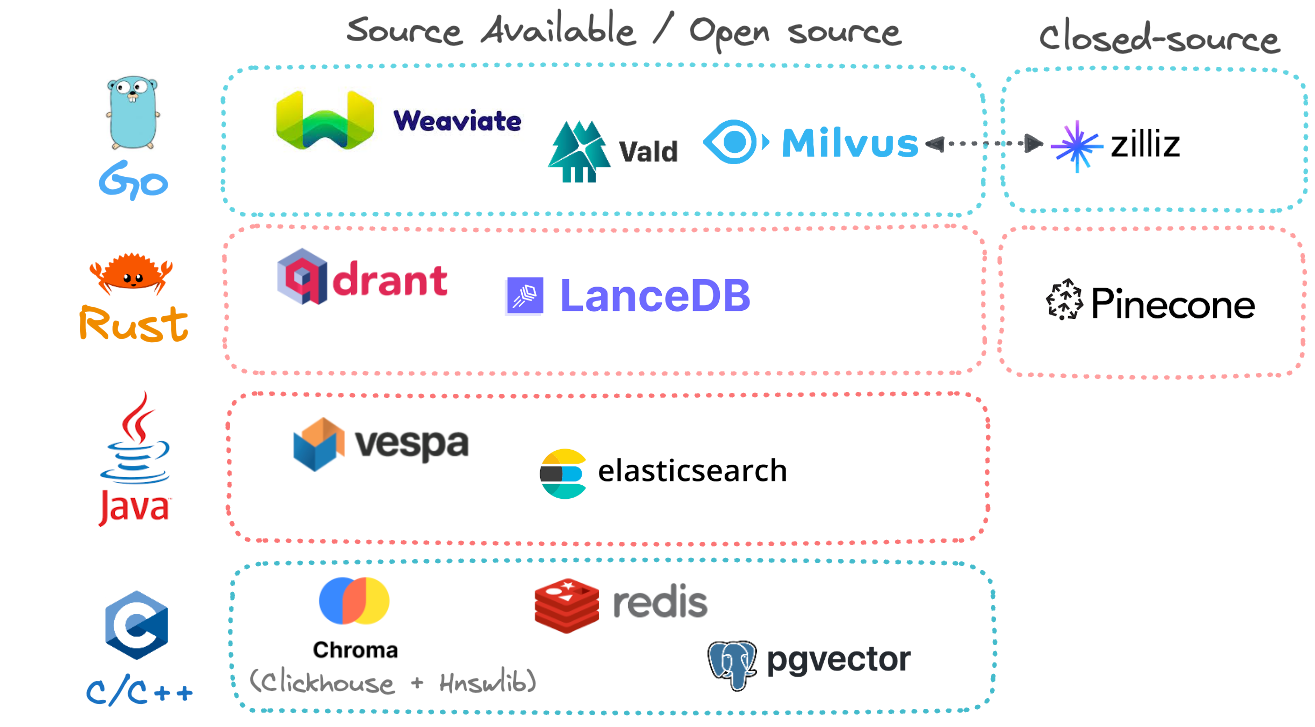
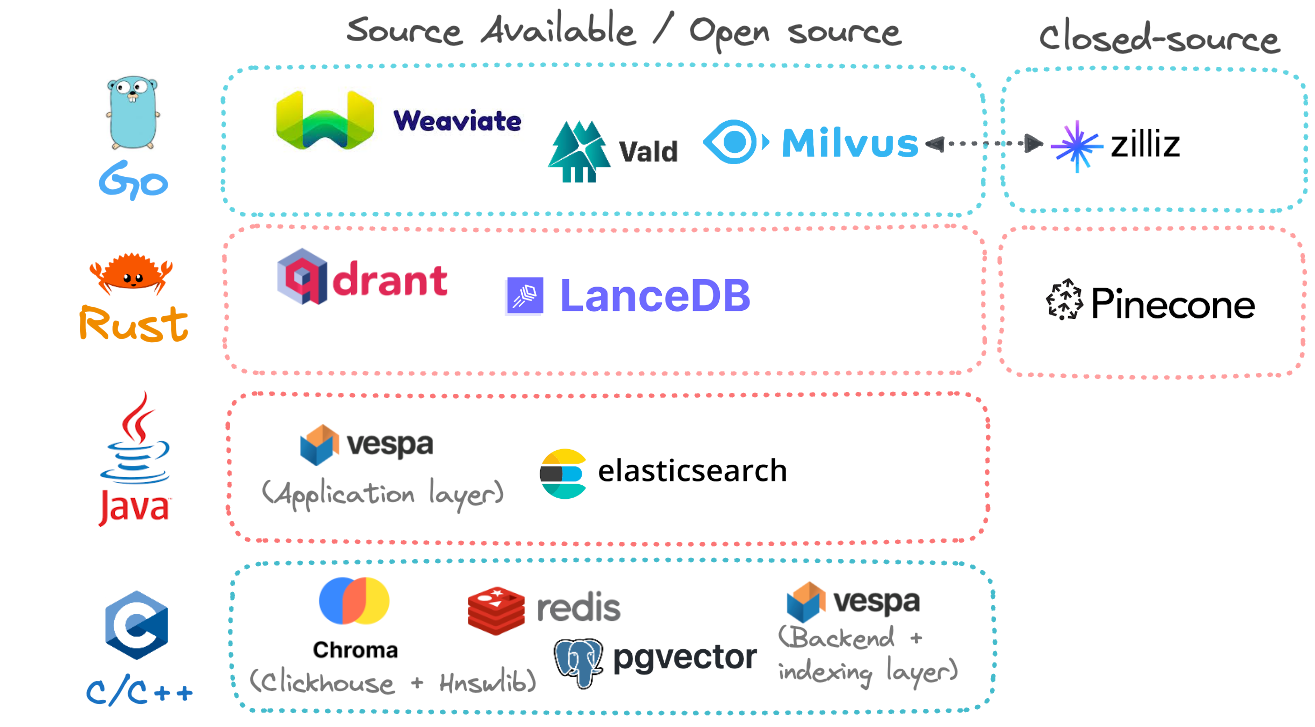
Fixes

Changed region(s): [[0.343, 0.7868, 0.7483, 0.9684], [0.1871, 0.575, 0.3741, 0.696]]

diff --git a/content/posts/vector-db-1/index.md b/content/posts/vector-db-1/index.md
@@ -40,10 +40,10 @@ Company         | Headquartered in | Funding
 Weaviate        |  🇳🇱 Amsterdam           |  $68M Series B
 Qdrant          |  🇩🇪 Berlin              |  $11M Seed
 Pinecone        |  🇺🇸 San Francisco       |  $138M Series B
-Milvus/Zilliz   |  🇨🇳 / 🇺🇸 San Francisco  |  $113M Series B
+Milvus/Zilliz   |  🇨🇳 / 🇺🇸 Redwood City   |  $113M Series B
 Chroma          |  🇺🇸 San Francisco       |  $20M Seed
 LanceDB         |  🇺🇸 San Francisco       |  Venture
-Vespa           |  🇺🇸 Redwood City        |  Yahoo!
+Vespa           |  🇳🇴 / 🇺🇸 Indianapolis   |  Yahoo!
 Vald            |  🇯🇵 Tokyo               |  Yahoo! Japan
 
 There's clearly a LOT of activity in the Bay Area, California when it comes to vector databases! Also, there's a large amount of variation in funding and valuations, and it's clear that there exists no correlation between the capabilities of a database and the amount it's funded for.
@@ -62,7 +62,7 @@ How long has each vector database been around?
 
 {{< figure src="vector-db-timeline.png" >}}
 
-Vespa was among the earliest vendors to incorporate vector similarity search alongside the then-dominant BM25 keyword-based search algorithm. Weaviate soon followed with an open-source, dedicated vector search database offering in the end of 2018, and by 2019, we began to see more competition in the space with Milvus (also open-source) being released. Note that Zilliz, also shown in the timeline, is not listed separately because it's the (commercial) parent entity of Milvus and offers a fully-managed cloud solution built on top of Milvus. In 2021, three new vendors entered the foray: Vald, Qdrant and Pinecone. Incumbents like Elasticsearch, Redis & PostgreSQL were conspicuously absent until this point and began offering vector search much later than one might think they should have -- only in 2022 and beyond.
+Vespa was among the earliest vendors to incorporate vector similarity search alongside the then-dominant BM25 keyword-based search algorithm (Fun fact: Vespa's [GitHub repo]https://github.com/vespa-engine/vespa() now has nearly 75K commits 🤯). Weaviate soon followed with an open-source, dedicated vector search database offering in the end of 2018, and by 2019, we began to see more competition in the space with Milvus (also open-source) being released. Note that Zilliz, also shown in the timeline, is not listed separately because it's the (commercial) parent entity of Milvus and offers a fully-managed cloud solution built on top of Milvus. In 2021, three new vendors entered the foray: Vald, Qdrant and Pinecone. Incumbents like Elasticsearch, Redis & PostgreSQL were conspicuously absent until this point and began offering vector search much later than one might think they should have -- only in 2022 and beyond.
 
 ### Source code availability
 
@@ -141,9 +141,9 @@ In this section, I'll list some of the key takeaways and the pros and cons of ea
 
 ### Vespa
 
-* __Pros__: Provides the most enterprise-ready hybrid search capabilities, combining the tried-and-tested power of keyword search and a custom vector search on top of HNSW. Although other vendors like Weaviate also provide keyword and vector search, Vespa was among the first to market with this offering, which has given them ample time to optimize their offering.
-* __Cons__: The developer experience in Java-based databases (simply due to the bulky nature of Java packages), including setup and teardown, is nowhere near as smooth as in more modern alternatives that are written in performance-oriented languages like Go or Rust.
-* __My take__: I believe the world is slowly but surely moving away from Java-based databases. Most new databases built these days are written in languages like Go or Rust, and those options could be the better choice for leaner, younger teams in terms of resource utilization, memory consumption and scalability.
+* __Pros__: Provides the most "enterprise-ready" hybrid search capabilities, combining the tried-and-tested power of keyword search and a custom vector search on top of HNSW. Although other vendors like Weaviate also provide keyword and vector search, Vespa was among the first to market with this offering, which has given them ample time to optimize their offering to be fast, accurate and scalable.
+* __Cons__: The developer experience is not as smooth as in more modern alternatives that are written in performance-oriented languages like Go or Rust, due to the application layer being written in Java. Also, until recently, it didn't make it very straightforward to set up and tear down development instances, for example via Docker and Kubernetes.
+* __My take__: Vespa does have a very good offering, but it's application is mostly built in Java, while the backend and indexing layer are built in C++. This makes it harder to maintain over time and as such, it tends to have a less developer-friendly feel than other alternatives. Most new databases these days are written entirely in one language, typically Golang or Rust, and there seems to be a lot more rapid pace of innovation in algorithms and architectures happening in databases like Weaviate, Qdrant and LanceDB.
 * __Official page__: [vespa.ai](https://vespa.ai/)
 
 ### Vald
@@ -170,6 +170,15 @@ It's hard to imagine any other time in history when any one kind of database has
 I'll end this post with the observation that, historically in the database world, the most successful business model has been the tried-and-tested approach of open-sourcing the code upfront (so that a passionate community builds around the technology), followed by commercializing the tool through managed service or cloud offerings. Embedded databases are relatively new in this space, and it remains to be seen how successful they will be in monetizing their product and generating long-term revenue. As such, it stands to reason that completely closed-source offerings may not capture a large market share -- over the longer term, my gut feel is that databases that value the developer ecosystem and developer experience are likely to thrive, and building an active open source community that believes in the tool will matter more than you think!
 
 I hope you found this summary useful! In the next posts, I'll summarize the underlying search and indexing algorithms in vector databases and go a bit deeper into the technical details. 🤓 🚀
+
+---
+
+### Edits
+
+As I keep learning new things from the community every day, I'll track any updates I make in this section 😄.
+
+- 2023-07-01: Corrected the programming language & location information for Vespa, per the helpful input from [@codycollier](https://github.com/codycollier)
+
 
 [^1]: Source of funding numbers: [objectbox.io](https://objectbox.io/vector-database/)
 [^2]: Rewriting a high performance vector database in Rust, [Pinecone blog](https://www.pinecone.io/learn/rust-rewrite/)
